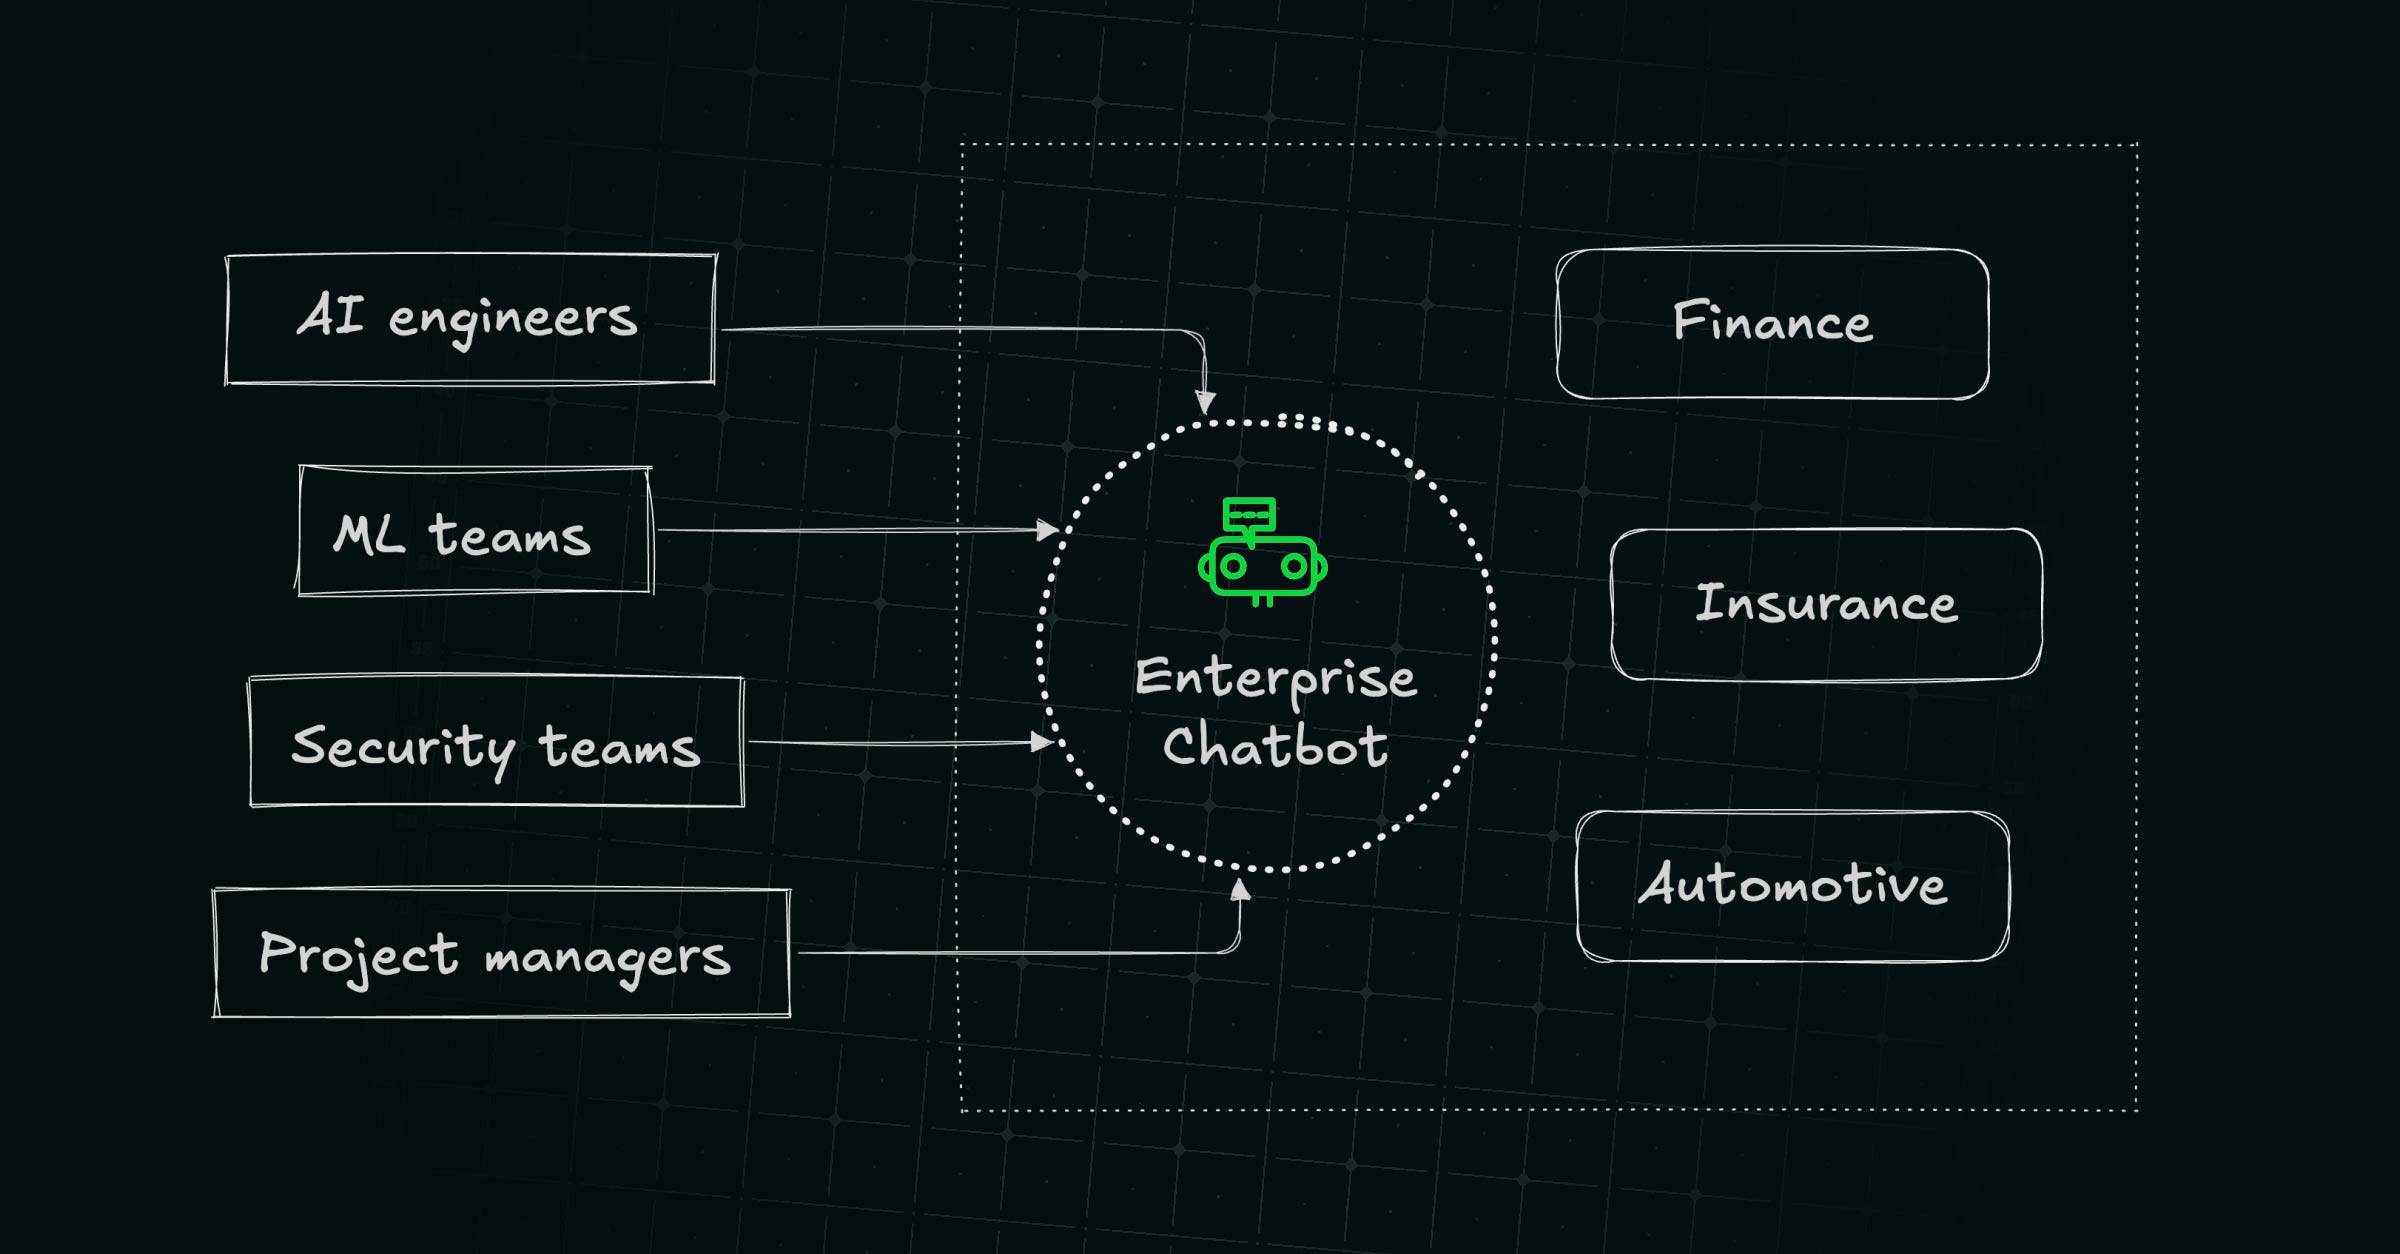
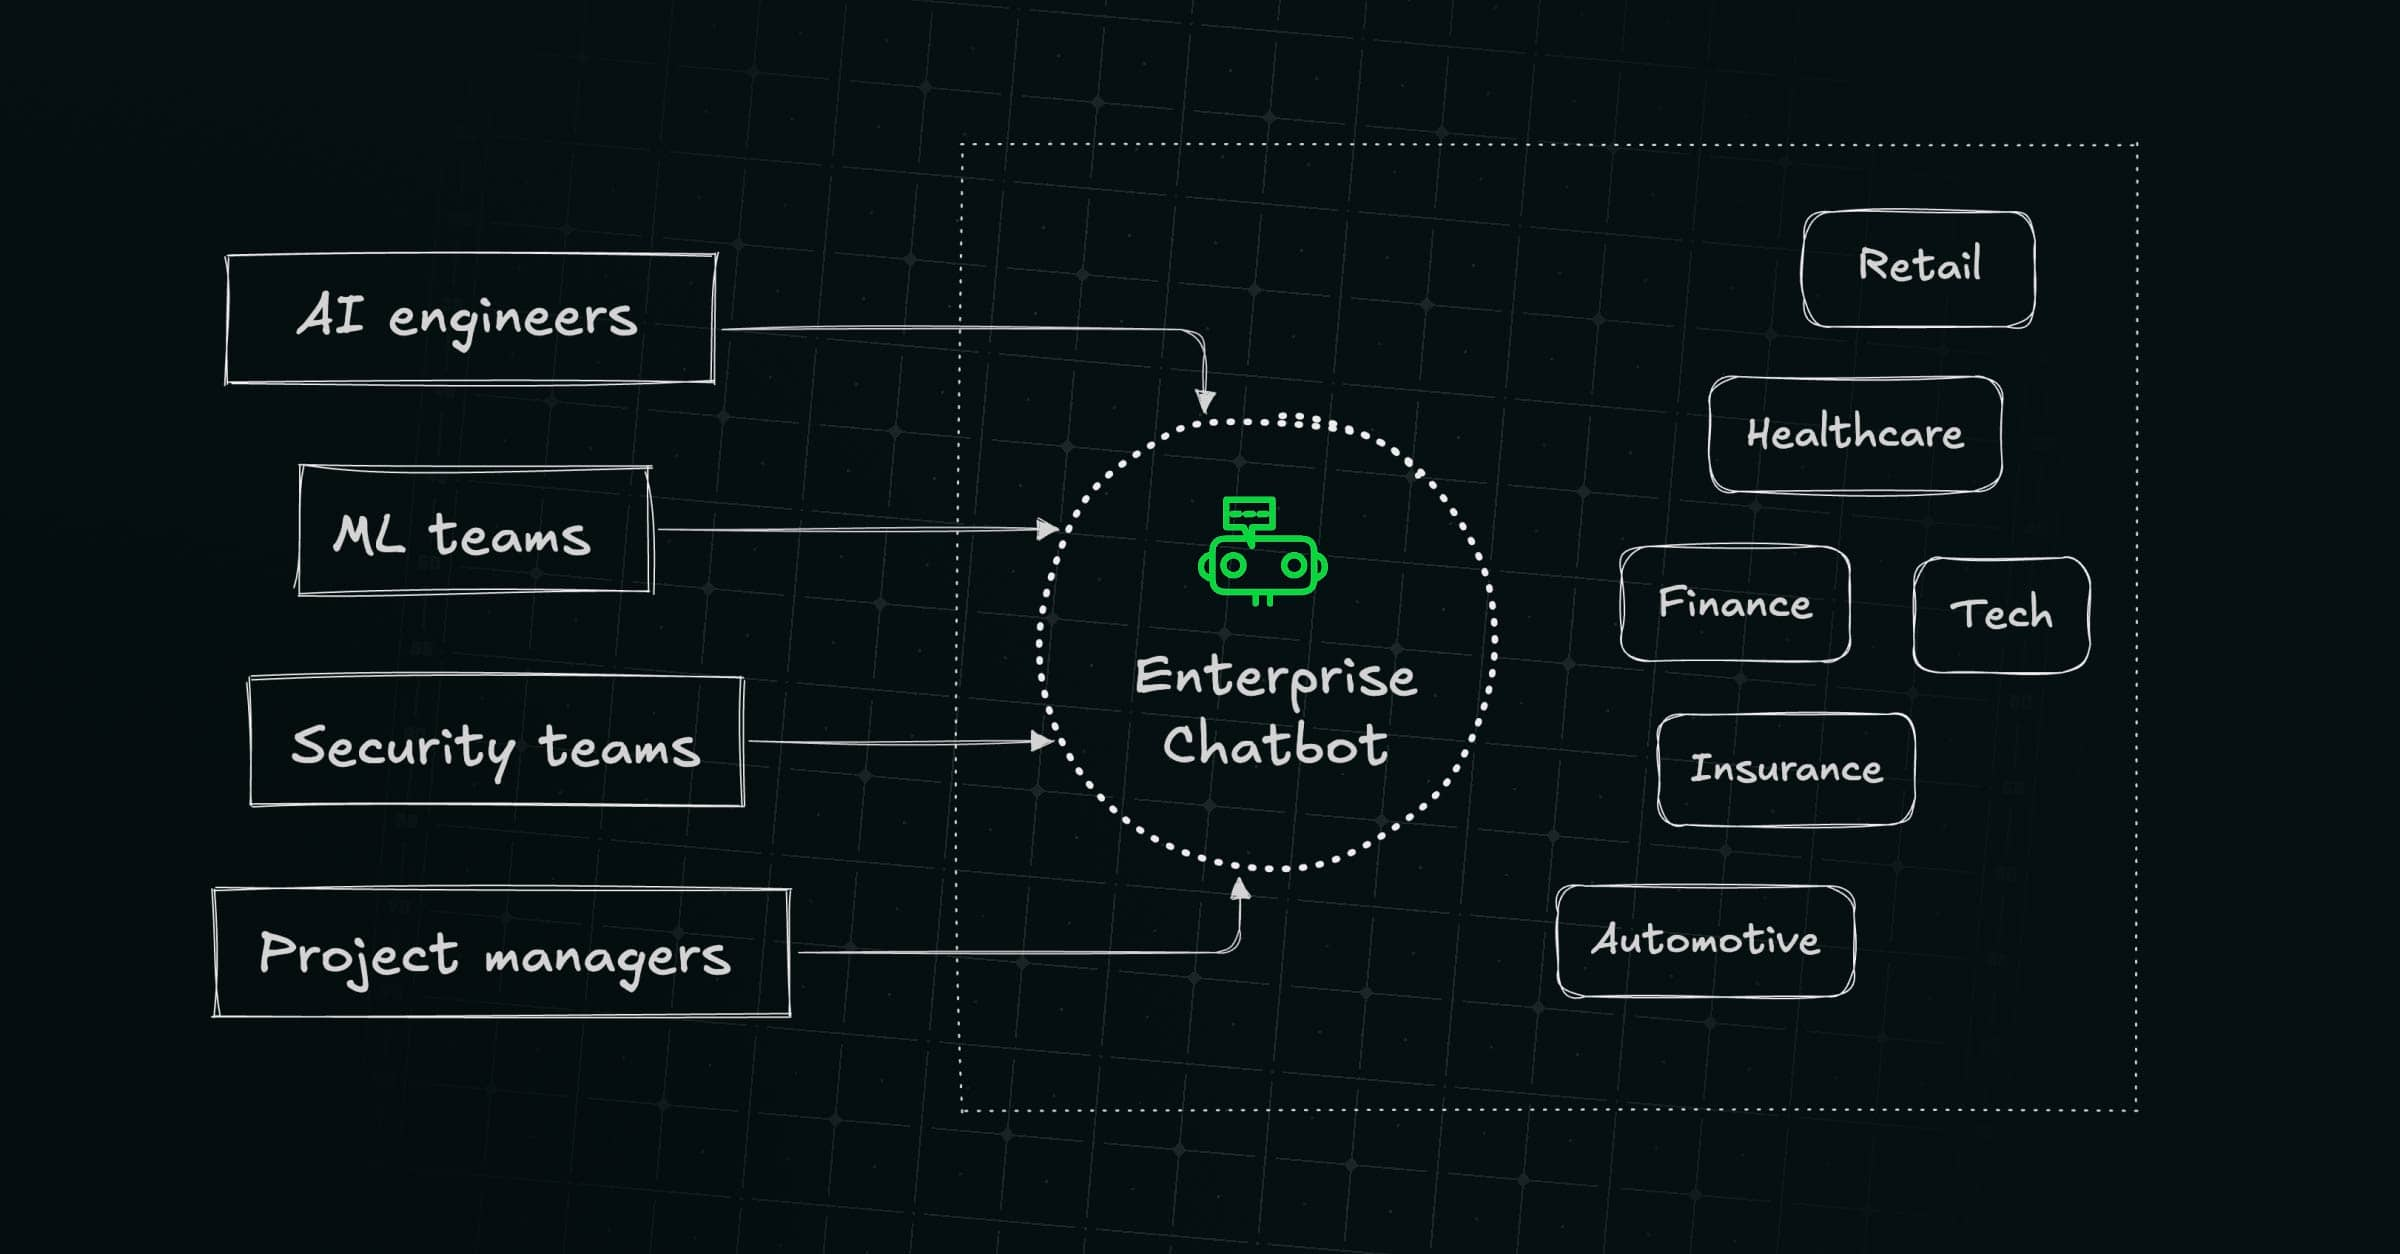
Review & enhance content

diff --git a/content/posts/the-giskard-hub.md b/content/posts/the-giskard-hub.md
@@ -14,7 +14,7 @@ This post is about [Giskard Hub](https://giskard.ai): the main Giskard product.
 <img src="https://res.cloudinary.com/lansolo99/image/upload/c_fit,dpr_auto,q_auto,w_auto/v1757161657/lansolo.dev/posts/the-giskard-hub-screens.jpg" alt="Giskard Hub - screens">
 
 As a designer and contributor on the [Giskard hub](https://www.giskard.ai/) (the main Giskard product) for almost a year now, I thought it was a good moment to step back and reflect on what this platform actually is and does. The LLM security domain was pretty much unknown territory before I dove into it. I took the time to understand
-the ins and outs involved, and also why it has been critical to have a threat evaluation layer for any llms/agent pushed in production.
+the ins and outs involved, and also why it has been critical to have a threat evaluation layer for any LLMs/agent pushed in production.
 
 I have been involved in a small, dedicated team of developers & researchers, and my role is to bridge the gap between the vision, the UI, and its implementation.
 
@@ -22,9 +22,9 @@ I have been involved in a small, dedicated team of developers & researchers, and
 
 <img src="https://res.cloudinary.com/lansolo99/image/upload/c_fit,dpr_auto,q_auto,w_auto/v1757161657/lansolo.dev/posts/the-giskard-hub-red-teaming.jpg" alt="Giskard Hub - screens">
 
-I think we should start from the very main core value of what Giskard does: Red Teaming applied to llms. Red teaming is a structured, adversarial testing process that uses simulated attacks (prompts) to uncover vulnerabilities, biases, harmful outputs, or unintended behaviors.
+I think we should start from the very main core value of what Giskard does: Red Teaming applied to LLMs. Red Teaming is a structured, adversarial testing process that uses simulated attacks (prompts) to uncover vulnerabilities, biases, harmful outputs, or unintended behaviors.
 
-LLMs have a large attack surface, and this can lead to some serious exposure such as legal and financial risk, but also service disruption leading to a brand's reputation damage.
+Agents have a large attack surface, and this can lead to some serious exposure such as legal and financial risk, but also service disruption leading to a brand's reputation damage.
 
 Giskard then provides a platform for evaluating, testing, and monitoring LLM-based applications (agents, RAG pipelines, chatbots).
 
@@ -36,7 +36,10 @@ Check a Giskard webinar presenting this concept in detail:
 
 <img src="https://res.cloudinary.com/lansolo99/image/upload/c_fit,dpr_auto,q_auto,w_auto/v1757161657/lansolo.dev/posts/the-giskard-hub-audience.jpg" alt="Giskard Hub - screens">
 
-Currently the target audience is AI engineers, ML and security teams willing to secure their enterprise chatbot. Giskard partners with brands in the following domains: finance, insurance, automobile industry...
+Currently the target audience is AI engineers, ML and security teams willing to secure their enterprise chatbot. Giskard partners with brands in the following domains: finance, insurance, automotive, retail, healthcare, and tech.
+
+- **Technical profiles** (AI engineers, ML and security teams) want a structured way to know whether their agent actually works as expected, and to have something to look at when things go wrong.
+- **Non technical profiles (project managers, business owners)** want to make sure their chatbots their team is releasing won't break up or misbehave in production, upset customers and possibly damage their brand reputation.
 
 Our tagline insists on this one thing: "find vulnerabilities in AI agents before users do".
 The Giskard SDK + the Hub provide an infrastructure that addresses it.
@@ -49,15 +52,15 @@ The hub gathers 3 main features to adversarially test an agent:
 
 <img src="https://res.cloudinary.com/lansolo99/image/upload/c_fit,dpr_auto,q_auto,w_auto/v1757161657/lansolo.dev/posts/the-giskard-hub-screen-playground-2.jpg" alt="Giskard Hub - playground">
 
-This is a common chatbot interface to check how your model responds directly as the end user would. If something unexpected is noticed in the conversation, you can send the proper conversation to feed a dataset, this entity is part of the evaluation feature.
+This is a simple chatbot interface to check how your agent responds directly as the end user would. While basic, it has an important role: it lets you discover unexpected behaviors, and capture these conversations to feed a "golden" dataset. The datasets are then used by the evaluations.
 
 ### The evaluations
 
 <img src="https://res.cloudinary.com/lansolo99/image/upload/c_fit,dpr_auto,q_auto,w_auto/v1757161657/lansolo.dev/posts/the-giskard-hub-screen-evaluation-2.jpg" alt="Giskard Hub - evaluation">
 
-This is the quality spectrum: evaluations are set to monitor the agent responses using a tailored dataset (see it as a business script), and assess its responses against some built-in or tailored evaluation metrics. A dataset is a set of conversations (test cases) paired with those metrics.
+This is the quality spectrum: evaluations are set to monitor the agent responses using a golden evaluation dataset (see it as a business script), and assess its responses against some built-in or tailored evaluation metrics. A dataset is a set of conversations (test cases) paired with those metrics.
 
-The user can build a dataset from multiple ways:
+The user can build a dataset in multiple ways:
 
 - by importing it directly from a list of problematic conversations and checks (whether from the playground or through a file import)
 - by providing an internal knowledge base that will go under a synthetic generation of tailored conversations
@@ -69,7 +72,7 @@ Once that piece is set, the user runs an "evaluation" by picking its dataset and
 
 <img src="https://res.cloudinary.com/lansolo99/image/upload/c_fit,dpr_auto,q_auto,w_auto/v1757161657/lansolo.dev/posts/the-giskard-hub-screeen-evaluation-result" alt="Giskard Hub - evaluation result">
 
-If this is a failure, a quick analysis is provided by metrics and also classify it into a category. This part is mostly driven by what we call a "LLM-as-a-judge": an internal "Giskard" agent evaluating the quality of outputs from the evaluated agent. They represent an essential piece of the automated annotations in the hub. Here is a relevant [post](https://www.giskard.ai/knowledge/how-to-implement-llm-as-a-judge-to-test-ai-agents-part-1) digging this topic.
+If this is a failure, a quick analysis is provided by metrics and also classifies it into a category. This part is mostly driven by what we call a "LLM-as-a-judge": an internal "Giskard" agent evaluating the quality of outputs from the evaluated agent. They represent an essential piece of the automated annotations in the hub. Here is a relevant [post](https://www.giskard.ai/knowledge/how-to-implement-llm-as-a-judge-to-test-ai-agents-part-1) digging this topic.
 
 An evaluation config can also be scheduled, this is the catch regression layer. The tool provides trend and comparison metric to monitor how the agent scores over time.
 
@@ -79,13 +82,13 @@ An evaluation config can also be scheduled, this is the catch regression layer. 
 
 This is the security spectrum: the scan is meant to identify weaknesses in the agent using common attack patterns.
 
-The user can scan its agent by picking from a set of probes categories, that will be used to target the agent.
+The user can scan its agent by picking from a set of probe categories, that will be used to target the agent.
 Those categories are mapped to the official OWASP standardized critical risks.
 
-A large amount of probes are then sent to attack the agent using a multi turn approach. Each response is evaluated before the probe adapts its strategy for the next turn until a failure is found or the max turn count is reached.
+A large amount of "security" probes are then sent to attack the agent using a multi turn approach. Each response is evaluated before the probe adapts its strategy for the next turn until a failure is found or the max turn count is reached.
 
 As for evaluations, a global score is set, with a breakdown by categories.
-The user can investigate every attacks set in details to take action, and eventually send some relevant conversations to feed a dataset.
+The user can investigate every attack set in details to take action, and eventually send some relevant conversations to feed a dataset.
 
 It gives users immediate feedback on the agent's security posture. Check a quick overview:
 
@@ -111,13 +114,24 @@ It reflects pragmatic enterprise choices: Next.js and FastAPI for velocity, Post
 
 <img src="https://res.cloudinary.com/lansolo99/image/upload/c_fit,dpr_auto,q_auto,w_auto/v1757161657/lansolo.dev/posts/the-giskard-hub-evolutions" alt="Giskard Hub - evolutions">
 
-Originally Giskard released an [open source library](https://github.com/Giskard-AI/giskard-oss), before extending its capacity to a fully featured SDK. This latter provides access to the Hub API, allowing users to drive hub operations from their terminal. When I started, the hub was kind of a bland Shadcn stylized UI, before we gradually customized the UI to align with the [revamped branding](https://www.giskard.ai/knowledge/a-new-look-for-sophia-the-story-behind-giskards-rebranding). The hub has now a distinguishable identity with its singular color palette, font, and some turtle inserts here and there 🐢.
+Originally Giskard released an [open source library](https://github.com/Giskard-AI/giskard-oss), before extending its capacity to a fully featured SDK. This latter provides access to the Hub API, allowing users to drive hub operations from their terminal. When I started, the hub was kind of a bland Shadcn stylized UI, before we gradually customized the UI to align with the [revamped branding](https://www.giskard.ai/knowledge/a-new-look-for-sophia-the-story-behind-giskards-rebranding).
+
+There are basically 2 kinds of improvements:
+
+- UX/UI improvements over existing features: addressing customers' pain points or we simply figured out ourselves that the UI was not intuitive enough
+- New features: those are opportunities to craft a tailored UI following our benchmarking and tested prototypes.
+
+The process involves Linear Cards to establish some specs, and (most of the time) Figma screens to validate the intention before jumping into the implementation itself.
+
+The hub has now a distinguishable identity with its singular color palette, font, and some turtle inserts here and there 🐢.
 
 - The first significant feature introduced last year was the scan
 - The dashboard has been revamped twice, surfacing more relevant monitored metrics
 - Then came the collaboration layer with the "Tasks", assignable to users, and acting as a lightweight project management feature
 - We added the scenario based dataset generation to allow users to craft them from a tailored script
-- under the hood, a lot of improvements have been made for the developer experience, with some APIs enhancements
+- Under the hood, a lot of improvements have been made for the developer experience, with some APIs enhancements
+
+Read more on the [Giskard rebranding](https://www.giskard.ai/knowledge/a-new-look-for-sophia-the-story-behind-giskards-rebranding).
 
 ## Where we are heading
 
@@ -129,7 +143,7 @@ Among them:
 
 ### Dynamic multi-turn evaluation
 
-Currently, evaluations only support single turn conversations. This limits the possibility to get an accurate assessment based on in-depth conversation where failures can happen on subsequent turns. Our Giskard Checks module will be soon integrated in the hub to bring this deep interaction assessment.
+Currently, evaluations only support single turn conversations (note that the scan already uses a dynamic multi-turn approach for security probes). This limits the possibility to get an accurate assessment based on in-depth conversation where failures can happen on subsequent turns. Our Giskard Checks module will be soon integrated in the hub to bring this deep interaction assessment.
 
 ### API based agent
 
@@ -159,4 +173,4 @@ Giskard also provides the recognized [Phare benchmark](https://phare.giskard.ai/
 
 ## Wrapping-up
 
-That's the big picture of Giskard Hub 🌌, what it does, how it's built, and where it's going. The pace of the LLM industry makes this kind of platform both genuinely useful and genuinely hard to build. The real challenge isn't technical, it's figuring out the right problems to solve in a space where the ground shifts every few months.
+That's the big picture of Giskard Hub 🌌, what it does, how it's built, and where it's going. The pace of the LLM industry makes this kind of platform both genuinely useful and genuinely hard to build. The real challenge is to constantly adapt the hub capabilities to address the right security problems emerging in this landscape that reinvents itself every few months.

diff --git a/README.md b/README.md
@@ -3,18 +3,19 @@
 ## Dev/Build
 
 ```bash
-nvm use 14/16
-npm run dev
+nvm use 14
+yarn run dev
 ```
 
 ## Build Process (Vercel)
 
 **Note: Alway build and deploy locally.**
-**Note: build locally with node 14 or 16 && npm run generate.**
+**Note: build locally with node 14 or 16 && yarn run generate.**
 **Note: push on git & deploy manually with Vercel **
 
 ```bash
-nvm use 14/16
-ntl build
-ntl deploy
+yarn use 14
+yarn generate
+gaa && gcmsg "Generate ..."
+git push -> vercel deploy
 ```
